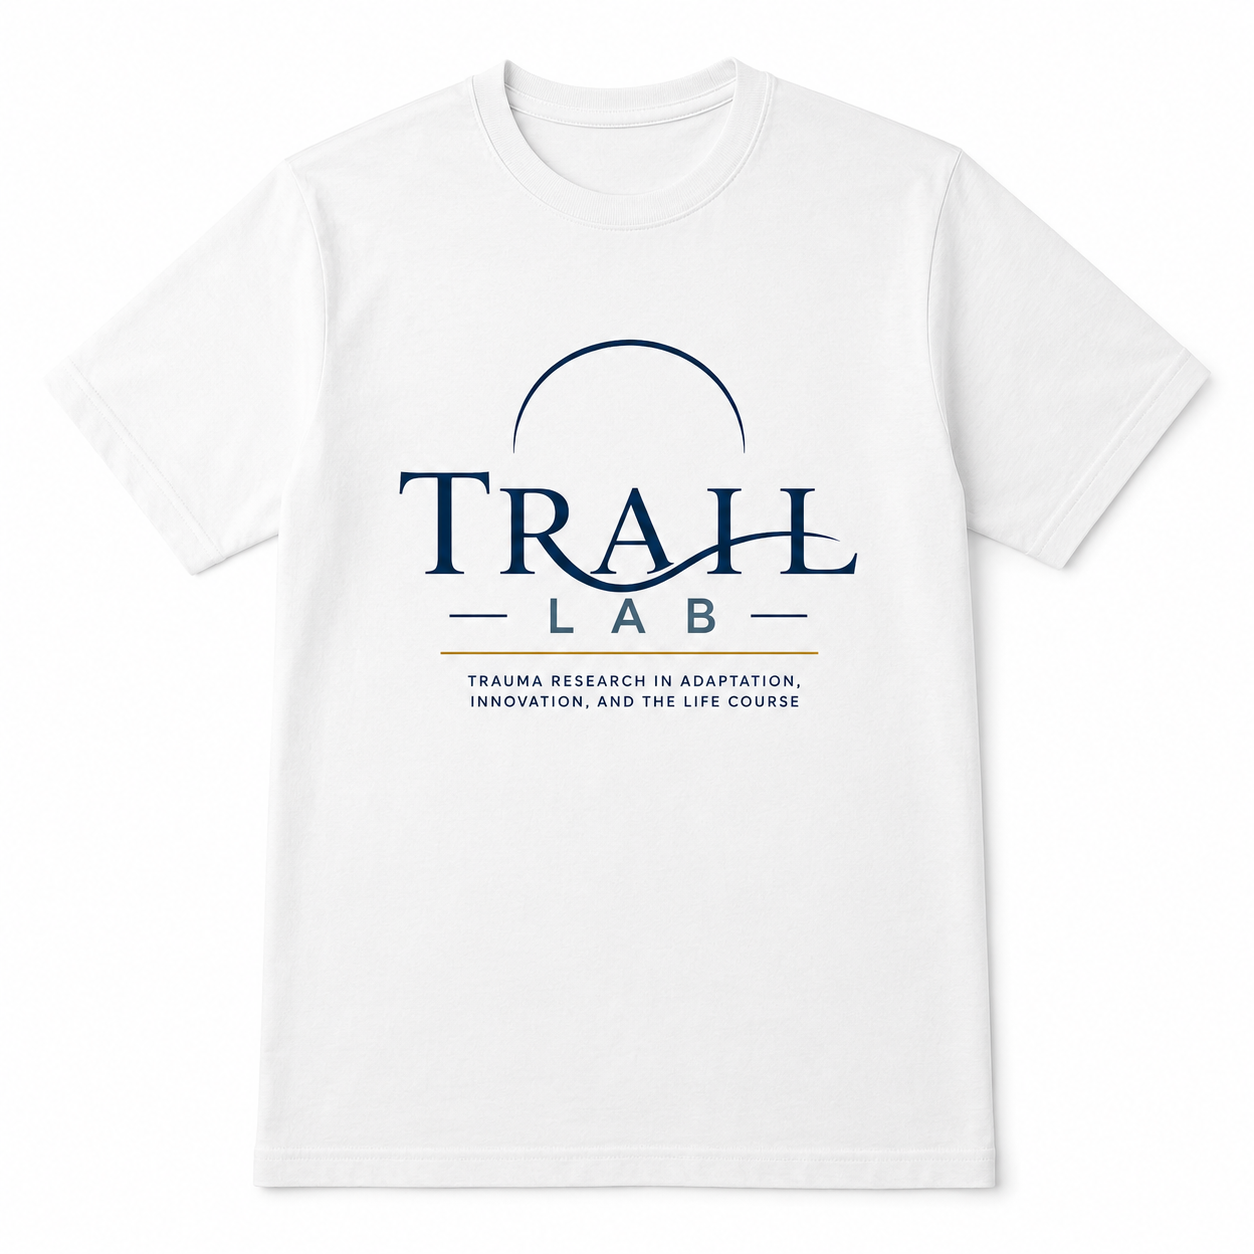
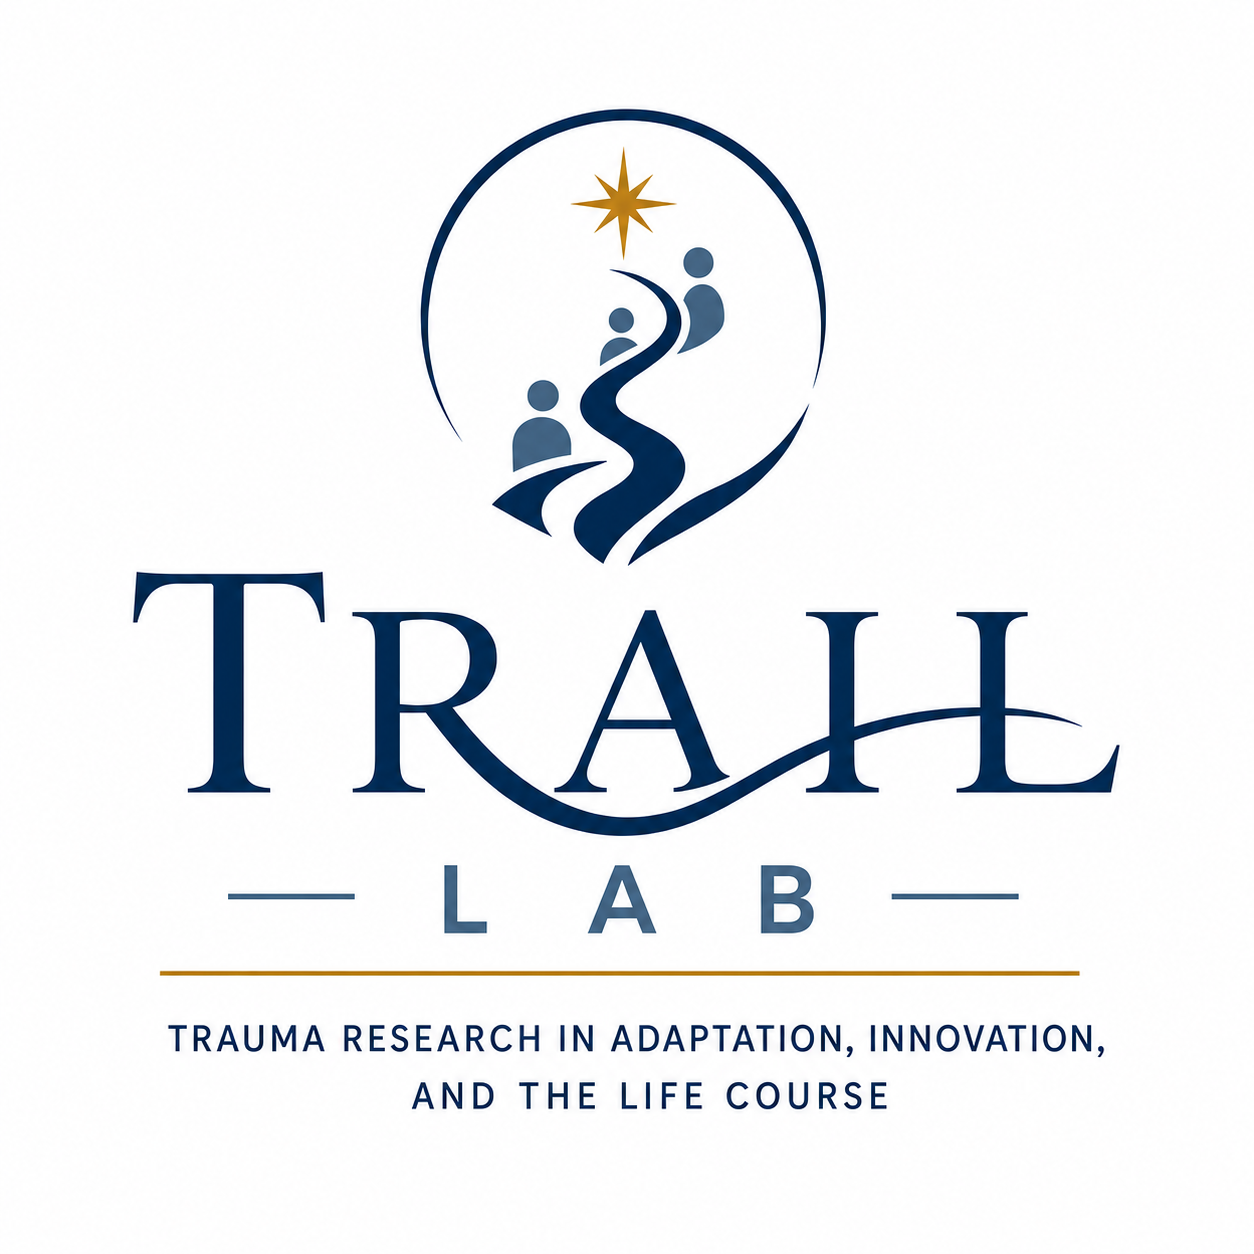
Add files via upload

diff --git a/people.html b/people.html
@@ -71,13 +71,13 @@
     <article class="person-card with-photo">
       <img class="profile-photo" src="assets/emily-mejia-headshot.jpg" alt="Emily Mejia">
       <h2>Emily Mejia</h2>
-      <p class="role">Co-Manager, TRAIL Academy</p>
+      <p class="role">Manager, TRAIL Academy</p>
       <p>Emily Mejia supports TRAIL Academy training, curriculum, educational resources, and professional learning coordination.</p>
     </article>
     <article class="person-card">
             <img src="assets/leah-burton-headshot.jpeg" alt="Leah Burton headshot" class="person-headshot">
       <h2>Leah Burton</h2>
-      <p class="role">Co-Manager, TRAIL Academy</p>
+      <p class="role">Manager, TRAIL Speaks</p>
       <p>Leah Burton supports TRAIL Academy training, curriculum, educational resources, and professional learning coordination.</p>
     </article>
   </div>

diff --git a/contact.html b/contact.html
@@ -66,7 +66,7 @@
     </article>
     
 <article class="contact-card">
-  <img src="assets/trail-lab-logo.png" alt="TRAIL Lab logo">
+  <img src="assets/TRAIL_Lab_logo.png" alt="TRAIL Lab logo">
   <h2>TRAIL Lab</h2>
   <p>Trauma-focused research on coping, victimization, offending, justice involvement, practitioner experiences, systems response, and life-course outcomes.</p>
   <a href="mailto:[email redacted]">[email redacted]</a>

diff --git a/get-involved.html b/get-involved.html
@@ -55,7 +55,7 @@
 <section class="section">
   <div class="container involvement-list">
     <article id="trail-lab" class="involvement-card">
-      <img src="assets/trail-lab-logo.png" alt="TRAIL Lab logo">
+      <img src="assets/TRAIL_Lab_logo.png" alt="TRAIL Lab logo">
       <div>
         <h2>Get Involved with TRAIL Lab</h2>
         <p>TRAIL Lab offers Research Assistant opportunities for individuals interested in trauma-focused research.</p>

diff --git a/index.html b/index.html
@@ -101,7 +101,7 @@
     <div class="branch-card-grid">
       
 <article class="branch-card">
-  <img src="assets/trail-lab-logo.png" alt="TRAIL Lab logo">
+  <img src="assets/TRAIL_Lab_logo.png" alt="TRAIL Lab logo">
   <div>
     <p class="branch-label">Research</p>
     <h3>TRAIL Lab</h3>

diff --git a/our-work.html b/our-work.html
@@ -116,7 +116,7 @@
       <div class="container">
         <div class="branch-card-grid">
           <article class="branch-card">
-            <img src="assets/trail-lab-logo.png" alt="TRAIL Lab logo">
+            <img src="assets/TRAIL_Lab_logo.png" alt="TRAIL Lab logo">
             <div>
               <p class="branch-label">Research</p>
               <h3>TRAIL Lab</h3>

diff --git a/trail-lab.html b/trail-lab.html
@@ -56,7 +56,7 @@
       </div>
     </div>
     <div class="branch-hero-logo">
-      <img src="assets/trail-lab-logo.png" alt="TRAIL Lab logo">
+      <img src="assets/TRAIL_Lab_logo.png" alt="TRAIL Lab logo">
     </div>
   </div>
 </section>